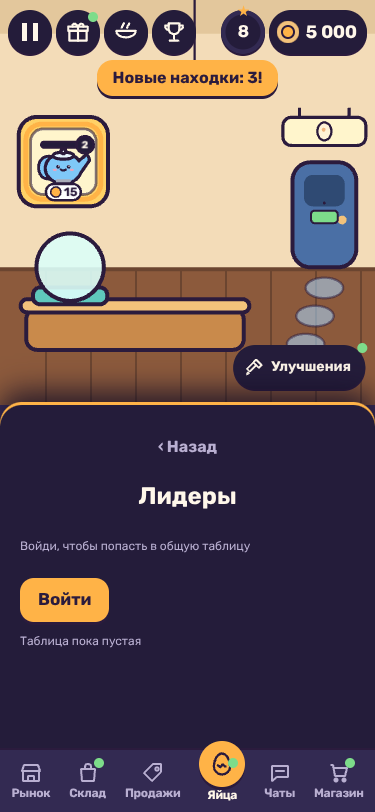
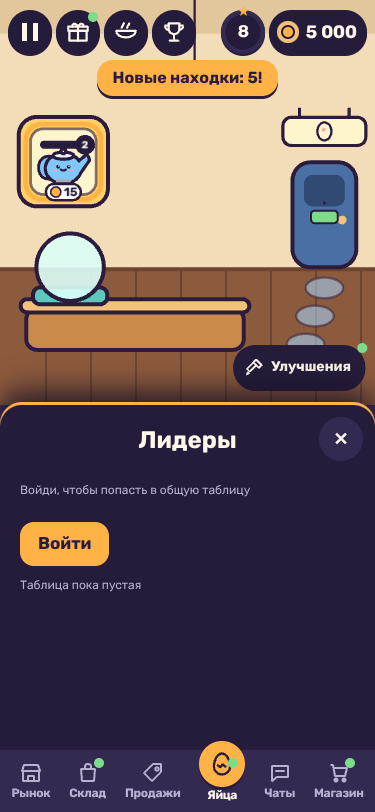
M4-09: правки перед ревизорами
Лидеры и уровень продавца закрываются ✕ (одна модель панелей), «питомец»
вместо «существо» в текстах; тест рынка M3-10 отказывает скупому
покупателю, как игрок (настроение рынка дня делает вид дешевле).

Claude-Session: https://claude.ai/code/session_0135DSCntexDQxf7FhBxbWYD

Changed region(s): [[0.0293, 0.5234, 0.6747, 0.8005], [0.528, 0.0924, 0.616, 0.1232], [0.88, 0.5234, 0.9387, 0.5542]]

diff --git a/e2e/seller-m3.spec.ts b/e2e/seller-m3.spec.ts
@@ -28,10 +28,23 @@ test('M3-10 bought below the market → on sale → sold dearer', async ({ page 
   // On sale (the shelf has room: one place on the start), a buyer writes; sell in the chat.
   await page.locator('[data-tab=sales]').click();
   if (((await state(page)) as unknown as { shelf: string[] }).shelf.length === 0) await listFromInventory(page);
-  await page.evaluate(() => (window as unknown as { __TEST__: { runSim(s: number): number } }).__TEST__.runSim(20));
-  await expect.poll(async () => ((await state(page)) as unknown as S).chats.length, { timeout: 15000 }).toBeGreaterThan(0);
-  const offer = ((await state(page)) as unknown as S).chats[0]!.offer;
+  // A buyer writes. A lowball one is turned down, as a player would (buyers differ, and the market mood of the day
+  // may find this species boring, M4-23); the next one pays more than the seller got.
+  // The test snapshot lists open chats only.
+  const openChats = async () => ((await state(page)) as unknown as S).chats;
+  let offer = 0;
+  for (let i = 0; i < 6 && offer <= paid; i++) {
+    await page.evaluate(() => (window as unknown as { __TEST__: { runSim(s: number): number } }).__TEST__.runSim(20));
+    await expect.poll(async () => (await openChats()).length, { timeout: 15000 }).toBeGreaterThan(0);
+    offer = (await openChats())[0]!.offer;
+    if (offer > paid) break;
+    await page.locator('[data-tab=sales]').click();
+    await page.locator('[data-tab=chats]').click();
+    await page.locator('[data-sheet=chats] .chat-row:not(.closed)').first().click();
+    await page.locator('[data-sheet=chats] [data-action=chat-decline]').click();
+  }
   expect(offer).toBeGreaterThan(paid);
+  await page.locator('[data-tab=sales]').click();
   await sellInChat(page);
   await expect.poll(async () => ((await state(page)) as unknown as S).stats.deals).toBeGreaterThan(0);
   const end = (await state(page)) as unknown as S;

diff --git a/src/ui/leaders.ts b/src/ui/leaders.ts
@@ -27,7 +27,8 @@ export function createLeadersWindow(parent: HTMLElement, leaders: Leaders, look:
   const overlay = createOverlay(parent, 'leaders', () => overlay.hide(), { kind: 'panel' });
   overlay.card.classList.add('card-detail', 'card-leaders');
   overlay.card.innerHTML =
-    `<button type="button" class="eggs-back" data-action="leaders-back"></button><h2 data-i18n="leaders.title"></h2>` +
+    // M4-00: one panel model — a panel of the top bar closes with ✕ (a tab or a tap on the shop close it too); «Back» lives only inside a tab.
+    `<button type="button" class="sheet-close panel-close" data-action="leaders-back" aria-label="✕">✕</button><h2 data-i18n="leaders.title"></h2>` +
     '<p class="card-sub" data-leaders-note></p><div data-leaders-login></div><ol class="leaders-list" data-leaders-list></ol>';
   const back = overlay.card.querySelector('[data-action="leaders-back"]') as HTMLElement;
   back.addEventListener('click', () => overlay.hide());
@@ -51,7 +52,6 @@ export function createLeadersWindow(parent: HTMLElement, leaders: Leaders, look:
       await leaders.submit(score);
     }
     if (!overlay.isOpen()) return;
-    back.textContent = `‹ ${look.t('eggs.back')}`;
     const lite = leaders.needsLogin();
     note.textContent = look.t(lite ? 'leaders.lite' : 'leaders.note');
     loginBox.replaceChildren(...(lite ? [login] : []));

diff --git a/src/ui/reputation.ts b/src/ui/reputation.ts
@@ -83,7 +83,7 @@ export function createReputation(hudBalance: HTMLElement, parent: HTMLElement, g
         rows.push(`<li class="rep-row" data-rep-level="${l}"><b>${look.t('rep.level', { n: l })}</b><span>${what.length ? what.map((w) => w.replace(/</g, '')).join(' · ') : look.t('rep.nothing')}</span></li>`);
       }
       panel.card.innerHTML =
-        `<button type="button" class="eggs-back" data-action="rep-back">‹ ${look.t('eggs.back')}</button>` +
+        `<button type="button" class="sheet-close panel-close" data-action="rep-back" aria-label="✕">✕</button>` +
         `<div class="rep-head"><span class="hud-level rep-big" style="--p:${chip.style.getPropertyValue('--p')}"><span class="hud-level-ring" aria-hidden="true"></span><span class="hud-level-star" aria-hidden="true">★</span><b>${r.level}</b></span>` +
         `<div><h2 class="rep-title"></h2><p class="card-sub rep-name"></p></div></div>` +
         `<div class="rep-bar" aria-hidden="true"><i style="width:${Math.round(share * 100)}%"></i></div>` +

diff --git a/src/ui/styles.css b/src/ui/styles.css
@@ -952,6 +952,14 @@
   font-weight: 700;
   line-height: 1;
 }
+/* M4-00: the ✕ of a top bar panel (seller level, leaders) — the same as a tab's, in the top right corner. */
+.panel-close {
+  position: absolute;
+  top: 12px;
+  right: 12px;
+  margin: 0;
+  z-index: 1;
+}
 /* An inner page of a tab (a lot, a creature's price, an egg's odds) takes the place of the list; «Back» on it returns to the list. */
 .sheet.has-detail > .sheet-head,
 .sheet.has-detail > .sheet-body {
@@ -2206,4 +2214,11 @@
 }
 .cards > .finds {
   grid-column: 1 / -1;
+}
+/* M4-00: room for the ✕ of a top bar panel. */
+.card-leaders > h2 {
+  padding: 0 48px;
+}
+.rep-head {
+  padding-right: 48px;
 }
